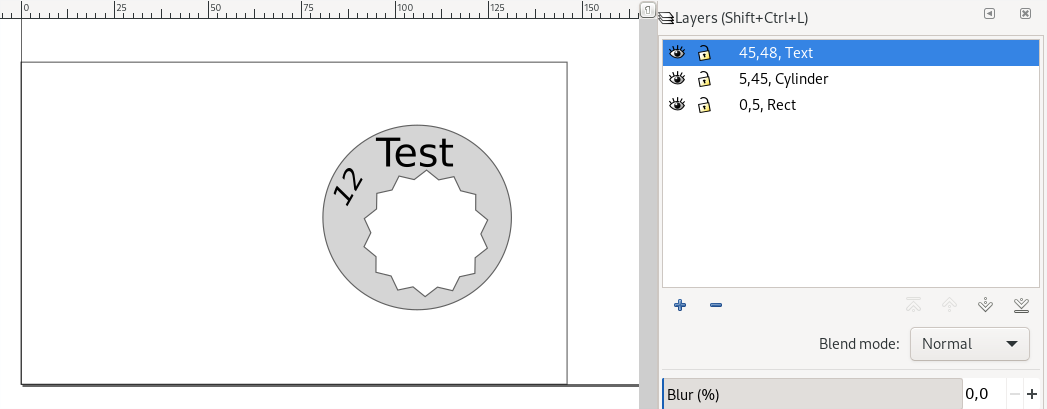
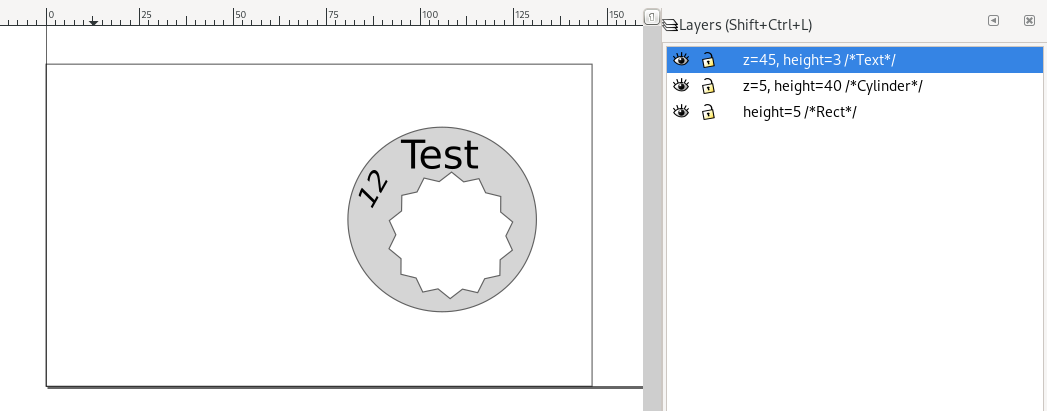
layer annotation changed to allow more arguments

diff --git a/README.md b/README.md
@@ -10,11 +10,24 @@ inkextrude is a simple `XSLT` script which generates an OpenSCAD script containi
 
 ### Inkscape
 
-layer naming:
+The layer name defined in inkscape is passed to the generated openscad function to change parameters. Therefore it has to be a valid openscad function argument definition.
 
-    {int Z1},{int Z2},here you can write,whatever,you,want
+Example:
+  
+    z=45, height=3 /*Text*/
 
-`Z1` is the height where the extrusion starts in milimeters, `Z2` is the height where the extrusion ends in milimeters.
+In this example the extrusion is extruded by 45 milimeters and the extrusion is 3 milimeters high. 
+In line comments are supported.
+
+Available parameters:
+
+  * `x`: passed to `translate` as x coordinate, default value is `0`
+  * `y`: passed to `translate` as y coordinate, default value is `0`
+  * `z`: passed to `translate` as z coordinate, default value is `0`
+  * `height`: passed to `linear_extrude` as height, default value is `0`
+  * `center`: passed to `import`, default value is `false`
+  * `linex_scale`: passed to `linear_extrude` as scale, default value is `1`
+  
 
 ![](inkscape.png)
 
